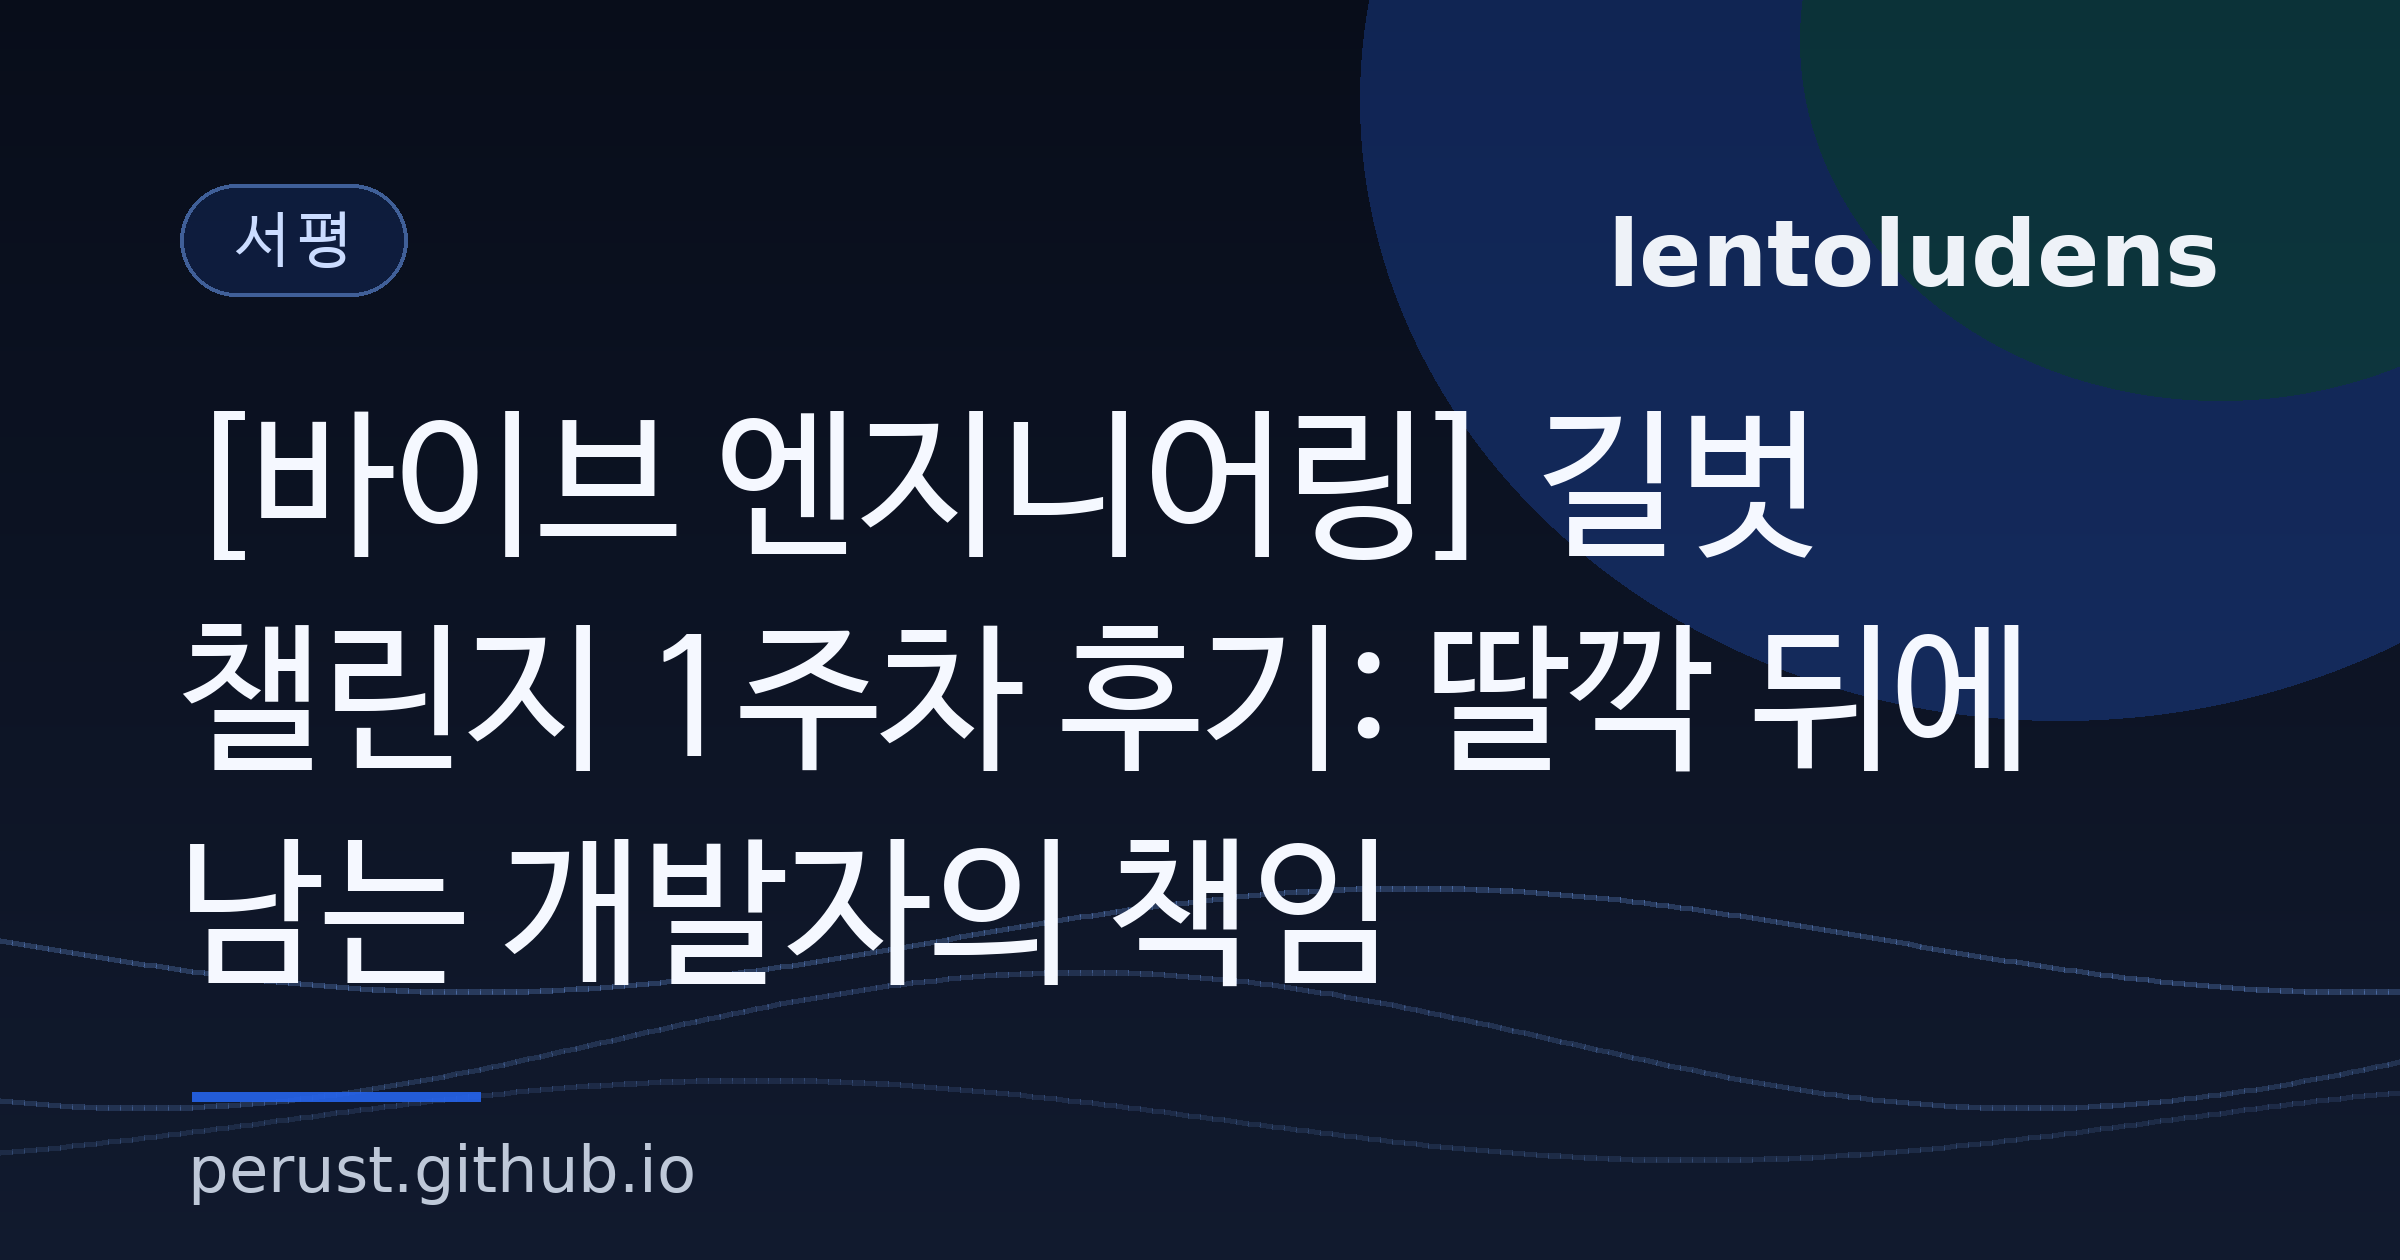
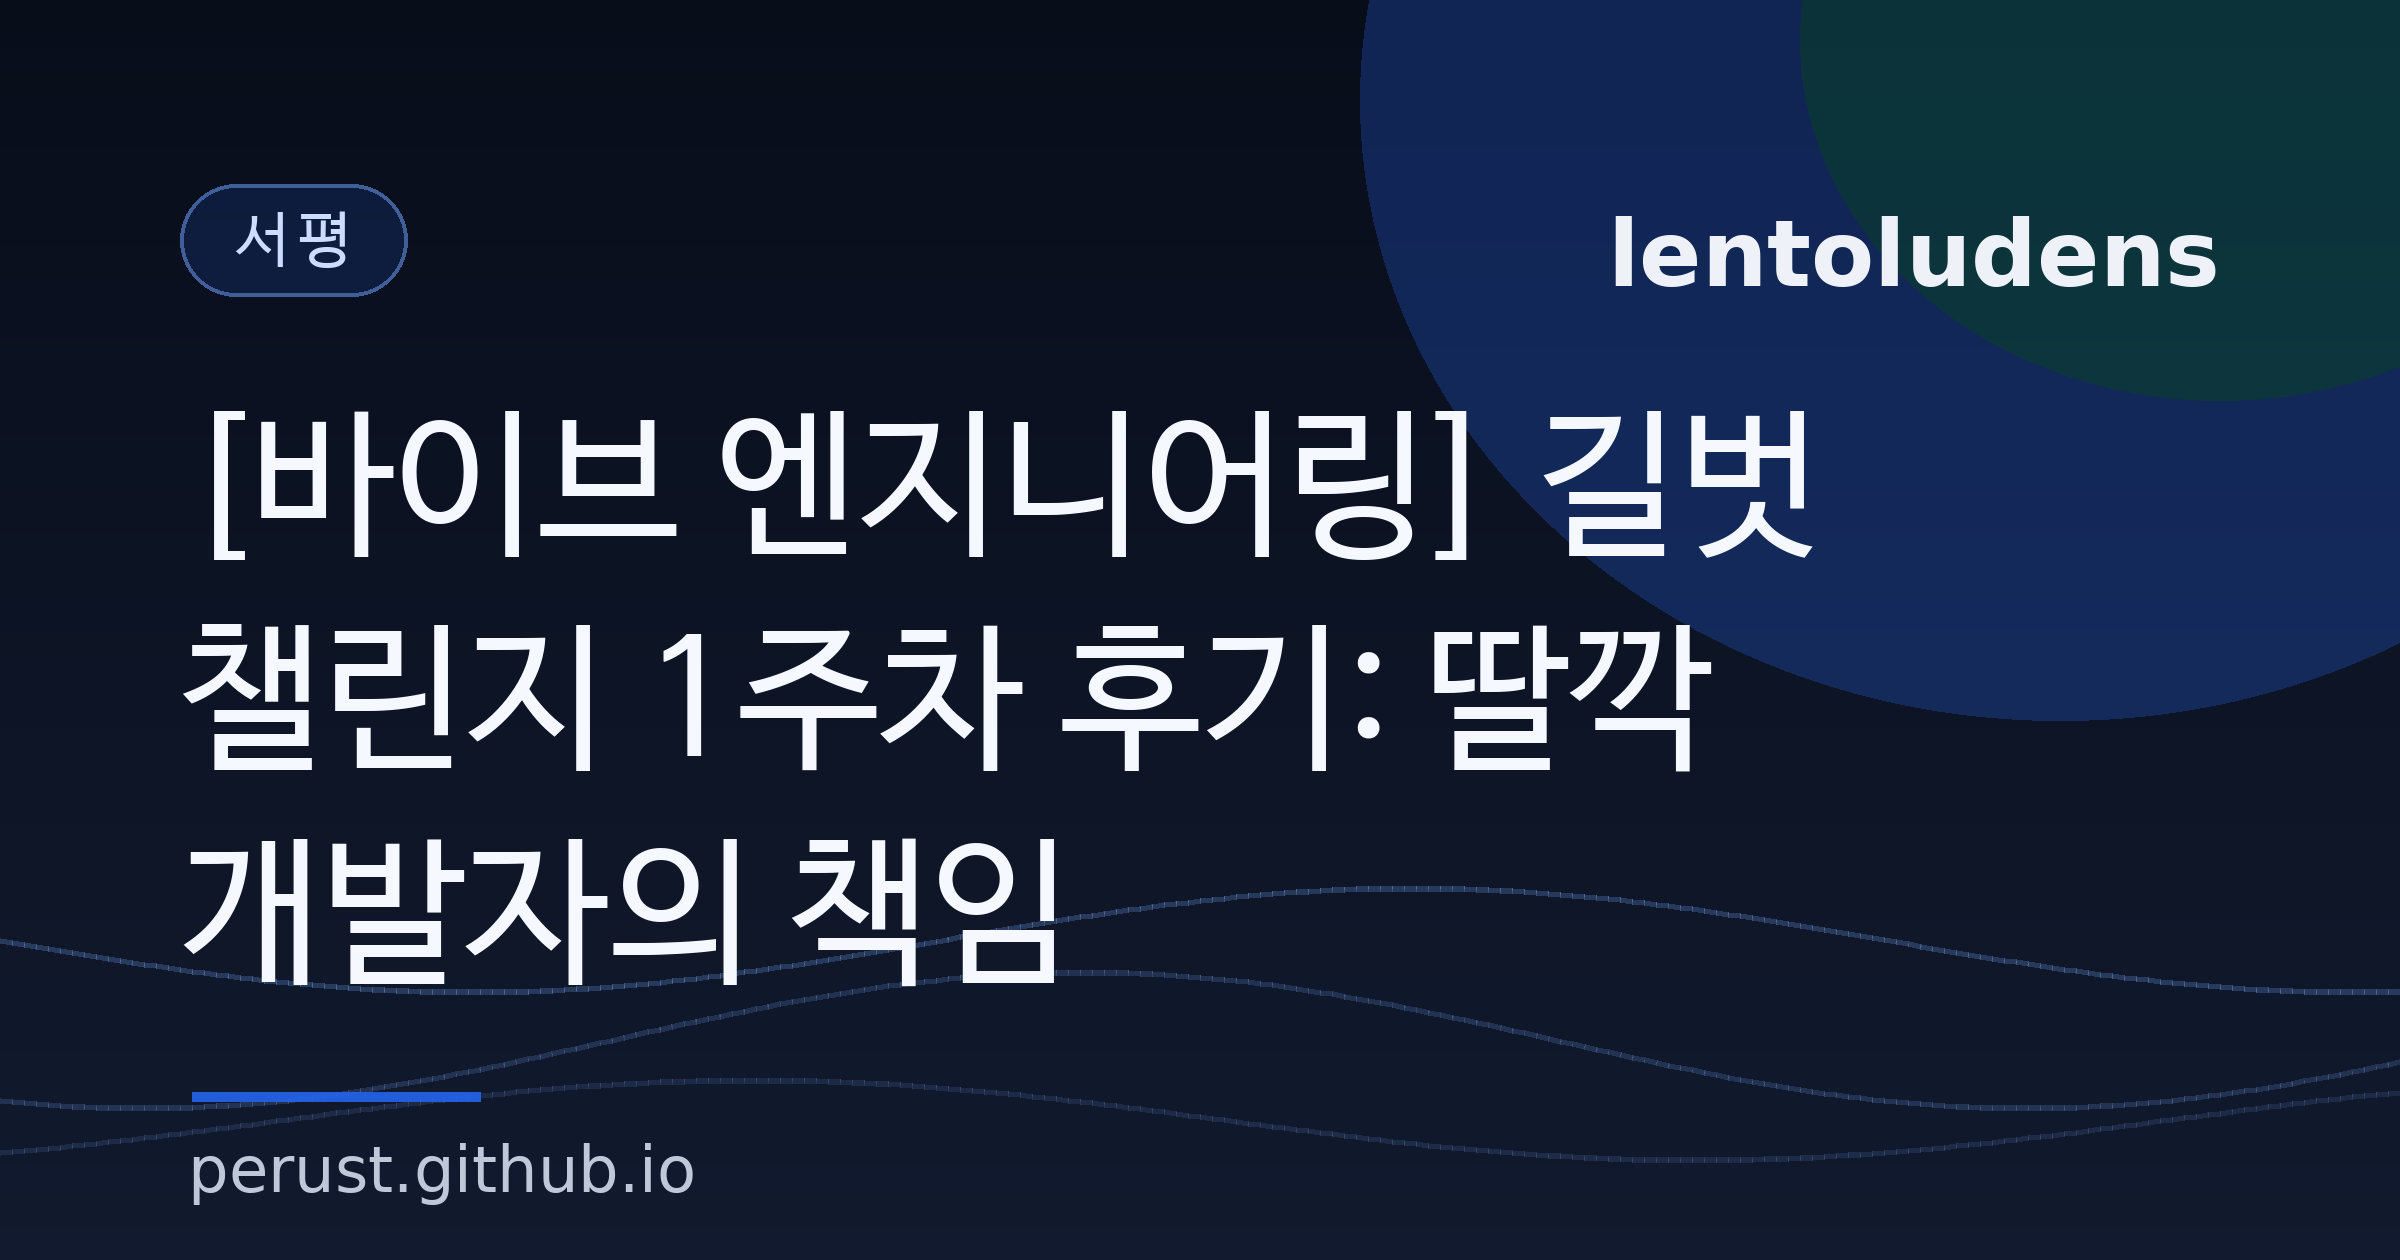
post: add book intro and purchase link

Changed region(s): [[0.0625, 0.65, 0.5938, 0.8048], [0.7188, 0.4952, 0.8438, 0.619]]

diff --git a/src/content/blog/2026-07-22-vibe-engineering-week1-review.md b/src/content/blog/2026-07-22-vibe-engineering-week1-review.md
@@ -6,12 +6,31 @@ category: "서평"
 tags: ["바이브엔지니어링", "바이브코딩", "AI코딩", "길벗챌린지", "개발자", "소프트웨어테스트"]
 ---
 
-『바이브 엔지니어링』은 바이브 코딩을 더 빠르게 하는 요령보다, AI가 만든 결과물을 실제 서비스에 쓸 수 있는 수준으로 끌어올리는 개발자의 역할을 다루는 책입니다. 길벗 도서 챌린지 1주차에는 1장부터 4장 초반까지 읽었습니다. 생성형 AI가 기본 도구가 된 환경에서 무엇을 요구하고, 어떤 기준으로 검증하며, 문제가 생겼을 때 어디서부터 이해해야 하는지를 생각해보는 시간이었습니다.
+## 책 소개
+
+<a href="https://www.gilbut.co.kr/book/view?bookcode=BN004853&amp;keyword=%EB%B0%94%EC%9D%B4%EB%B8%8C%EC%97%94%EC%A7%80%EB%8B%88%EC%96%B4%EB%A7%81&amp;collection=GB_BOOK" target="_blank" rel="noopener noreferrer" aria-label="길벗 바이브 엔지니어링 공식 도서 페이지로 이동">
+  <img src="/images/posts/vibe-engineering-week1/book-cover.jpg" alt="제이킴의 바이브 엔지니어링 책 표지" width="300" height="385" style="max-width: 300px; margin: 0 auto;" />
+</a>
+
+<small style="text-align: center;">표지 이미지: 길벗 공식 도서 페이지</small>
+
+『바이브 엔지니어링』은 AI에게 코드를 생성해 달라고 요청하는 데서 멈추지 않고, 요구사항 정의부터 설계·검증·테스트·도메인 판단까지 전체 개발 과정을 AI와 함께 이끄는 방법을 다루는 책입니다. AI가 코드를 만들더라도 무엇을 만들지 정의하고 결과가 올바른지 판단하는 책임은 개발자에게 있다는 관점에서 출발합니다.
 
 <div class="routine-kv">
   <div><dt>도서</dt><dd>바이브 엔지니어링</dd></div>
   <div><dt>저자·출판사</dt><dd>제이킴 · 길벗</dd></div>
-  <div><dt>1주차 범위</dt><dd>1장 바이브 엔지니어링의 시대부터 4장 디버깅 초반까지</dd></div>
+  <div><dt>출간·분량</dt><dd>2026년 6월 30일 · 312쪽</dd></div>
+  <div><dt>ISBN</dt><dd>9791140719273</dd></div>
+</div>
+
+<p class="source-link"><a href="https://www.gilbut.co.kr/book/view?bookcode=BN004853&amp;keyword=%EB%B0%94%EC%9D%B4%EB%B8%8C%EC%97%94%EC%A7%80%EB%8B%88%EC%96%B4%EB%A7%81&amp;collection=GB_BOOK" target="_blank" rel="noopener noreferrer">길벗 공식 도서 페이지에서 구매 정보 보기 →</a></p>
+
+## 1주차에 읽은 내용
+
+길벗 도서 챌린지 1주차에는 1장부터 4장 초반까지 읽었습니다. 생성형 AI가 기본 도구가 된 환경에서 무엇을 요구하고, 어떤 기준으로 검증하며, 문제가 생겼을 때 어디서부터 이해해야 하는지를 생각해보는 시간이었습니다.
+
+<div class="routine-kv">
+  <div><dt>읽은 범위</dt><dd>1장 바이브 엔지니어링의 시대부터 4장 디버깅 초반까지</dd></div>
   <div><dt>가장 크게 남은 질문</dt><dd>AI에게 맡긴 코드를 나는 어디까지 이해하고 책임질 수 있는가?</dd></div>
 </div>
 
